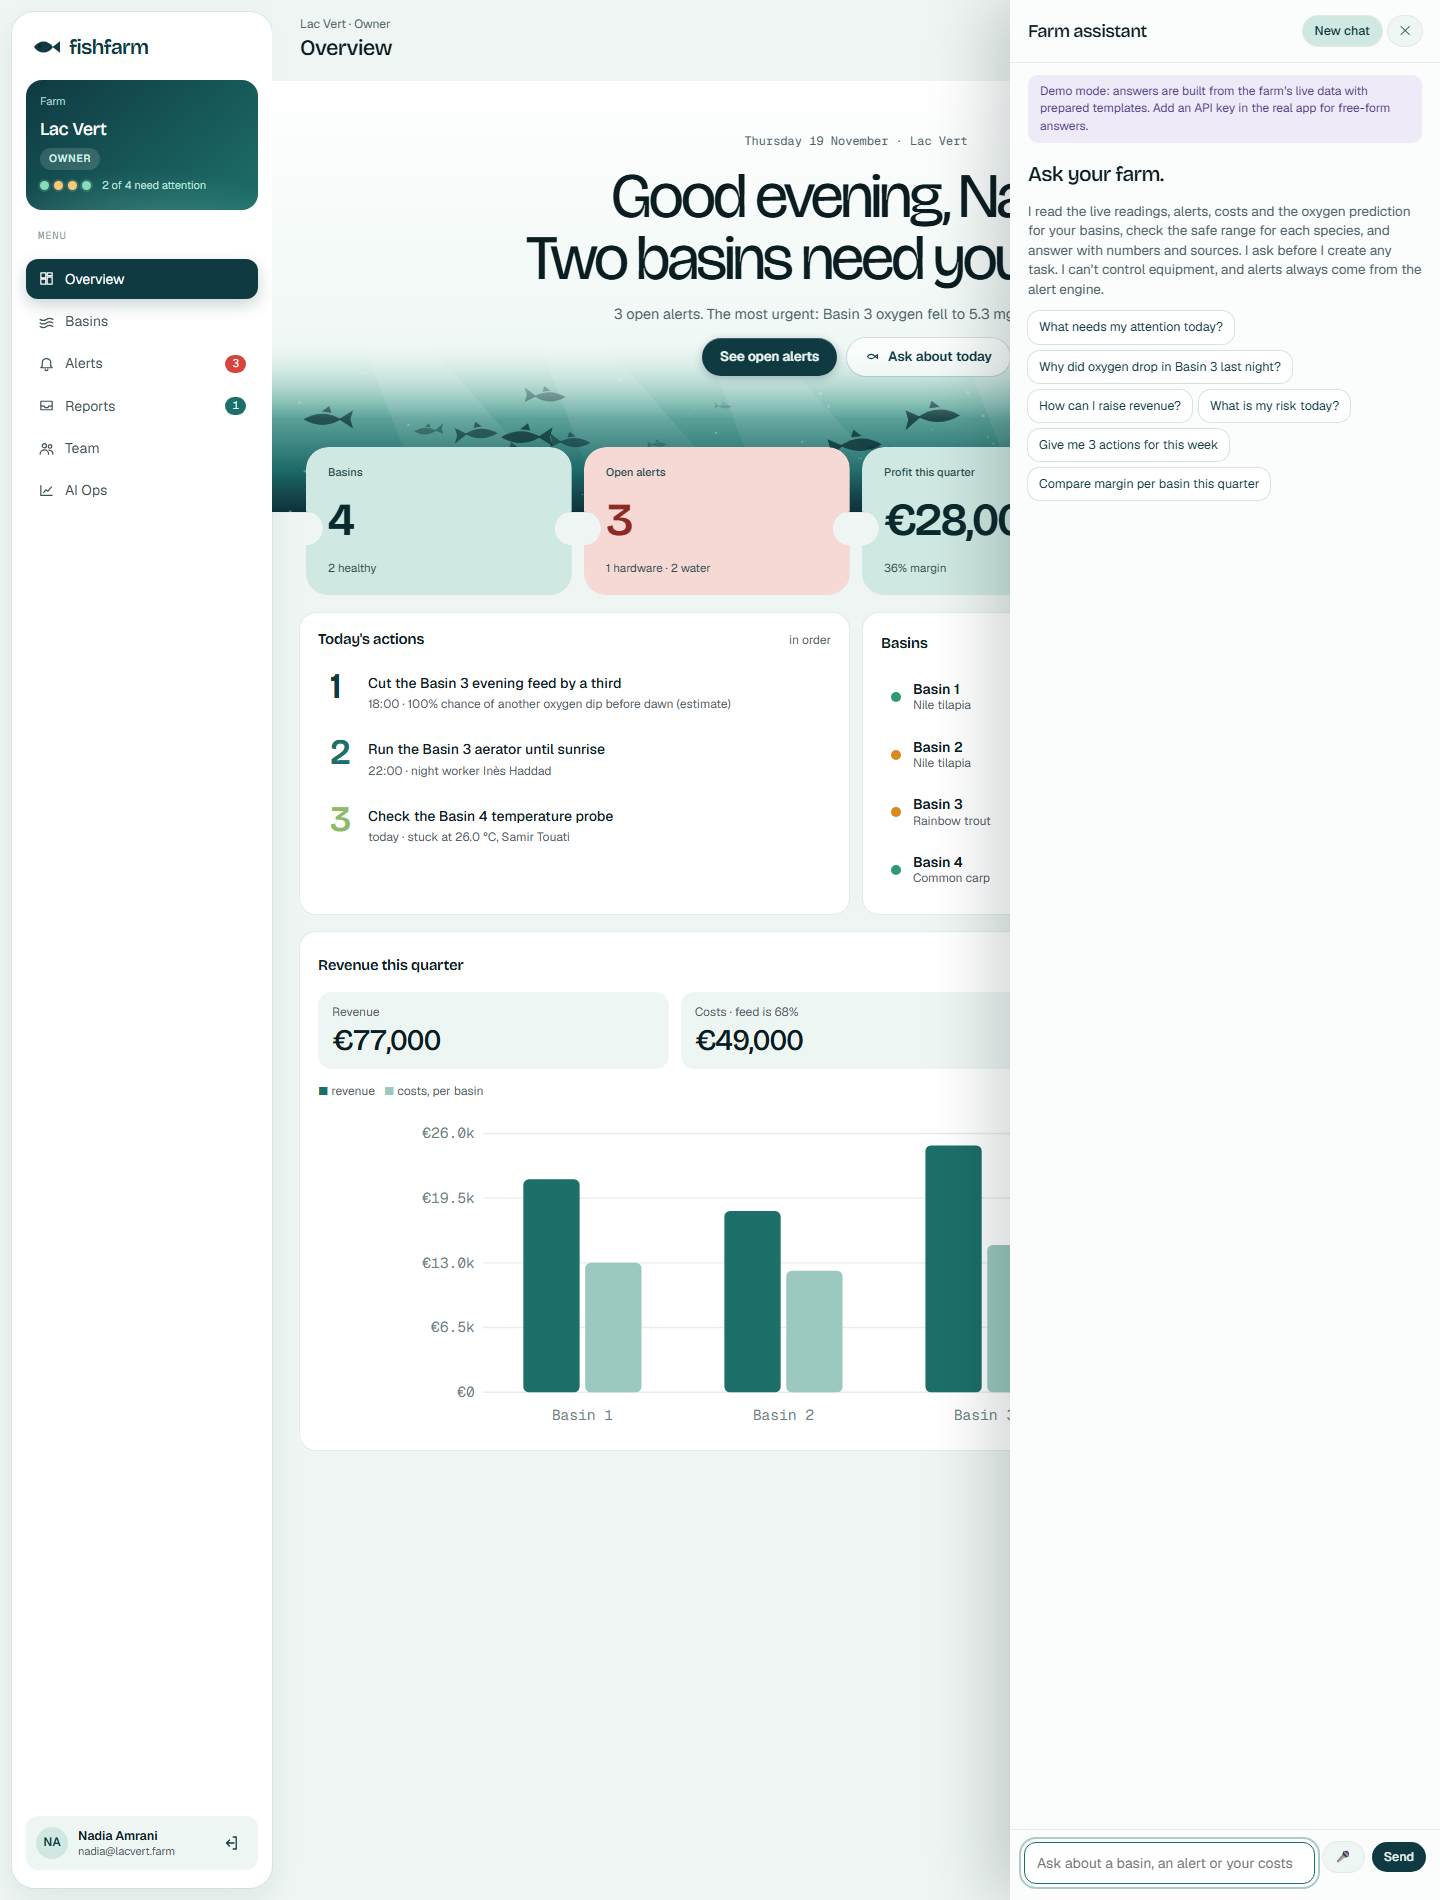
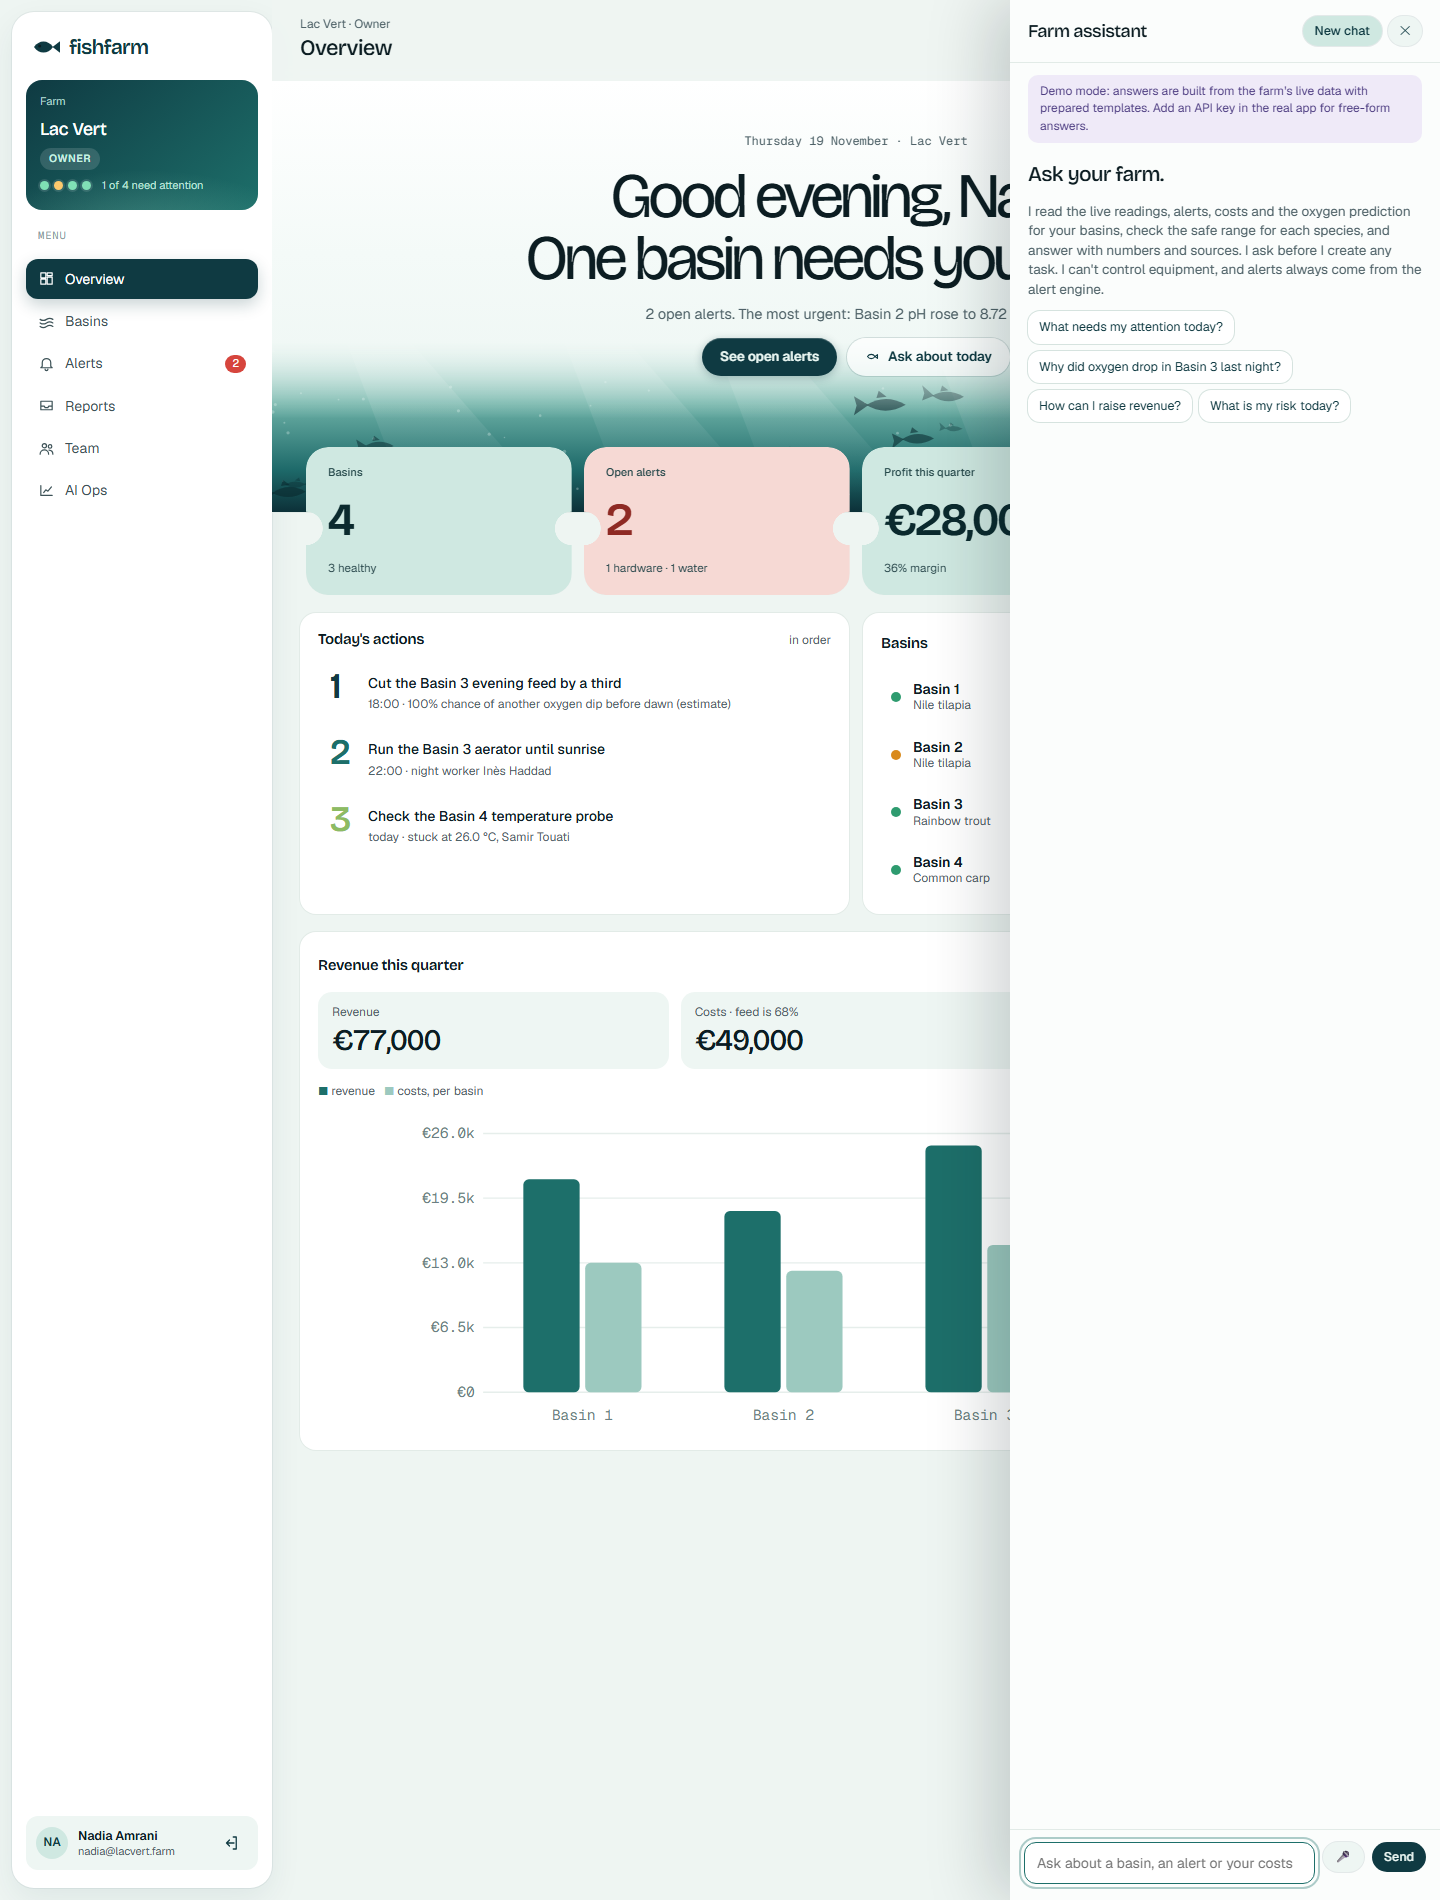
Phase 10: visual check against the 36 reference screenshots
- Captured every reference state from the real app into
  docs/screenshots-build and compared them side by side
- Fixes: just-resolved alert state, team order, maintenance task order,
  prediction feature format, assistant starter chips, chart labels for long
  series, short source chips, steadier Basin 3 demo night dip
- docs/VISUAL_CHECK.md lists every screen with notes

diff --git a/frontend/src/pages/owner/BasinDetail.tsx b/frontend/src/pages/owner/BasinDetail.tsx
@@ -246,8 +246,9 @@ export default function BasinDetail() {
                 <div key={f.name}>
                   <span>{f.label}</span>
                   <span className="mono">
-                    {f.value}
-                    {f.unit ? ' ' + f.unit : ''}
+                    {f.name === 'temp_now'
+                      ? fmt(f.value, 1)
+                      : `${f.name === 'do_decline_3h' ? fmt(f.value, 2) : Math.round(f.value)} ${f.unit}`}
                   </span>
                 </div>
               ))
@@ -260,7 +261,7 @@ export default function BasinDetail() {
           </div>
           <button
             className="small-btn"
-            style={{ justifySelf: 'start' }}
+            style={{ alignSelf: 'flex-start' }}
             onClick={() => ai.ask(`Explain the oxygen risk of ${b.name}`)}
           >
             <Icon name="chat" size={14} />

diff --git a/frontend/src/components/AlertList.tsx b/frontend/src/components/AlertList.tsx
@@ -16,7 +16,7 @@ function AlertItem({ a, justDone, onCheck }: { a: Alert; justDone: string | null
   const who = a.kind === 'sensor' ? 'the technician' : 'the worker on shift';
   return (
     <div
-      className={`alert sev-${a.severity}${done ? ' done' : ''}${justDone !== null ? ' just-done' : ''}`}
+      className={`alert sev-${a.severity}${a.resolved && justDone === null ? ' done' : ''}${justDone !== null ? ' just-done' : ''}`}
       data-aid={a.id}
     >
       <span className="stripe" />
@@ -51,7 +51,7 @@ function AlertItem({ a, justDone, onCheck }: { a: Alert; justDone: string | null
         </p>
       </div>
       <div className="acts">
-        {!done && (
+        {!a.resolved && (
           <button className="small-btn" onClick={() => ai.ask(`Explain alert ${a.id}`)}>
             <Icon name="chat" size={14} />
             Explain

diff --git a/frontend/src/assistant/Panel.tsx b/frontend/src/assistant/Panel.tsx
@@ -85,8 +85,6 @@ function chipsFor(role: string, page: string, basin?: string) {
     'Why did oxygen drop in Basin 3 last night?',
     'How can I raise revenue?',
     'What is my risk today?',
-    'Give me 3 actions for this week',
-    'Compare margin per basin this quarter',
   ];
 }
 

diff --git a/backend/app/services/demo.py b/backend/app/services/demo.py
@@ -51,7 +51,7 @@ BASINS = [
         3100,
         {
             "base": {"temp": 17.6, "do": 7.3, "ph": 7.2},
-            "amp": {"temp": 0.6, "do": 1.6, "ph": 0.2},
+            "amp": {"temp": 0.6, "do": 1.45, "ph": 0.2},
             "night_dip": {"from": 2.8, "to": 5.6, "depth": 0.28},
         },
     ),
@@ -219,7 +219,7 @@ def load_demo(
             source="maintenance",
             due_date=today + timedelta(days=1),
             created_by=owner_id,
-            created_at=now - timedelta(hours=5),
+            created_at=now - timedelta(hours=4),
         )
     )
     db.add(
@@ -232,7 +232,7 @@ def load_demo(
             source="manual",
             due_date=today,
             created_by=owner_id,
-            created_at=now - timedelta(hours=4),
+            created_at=now - timedelta(hours=5),
         )
     )
     db.flush()

diff --git a/backend/app/services/briefing.py b/backend/app/services/briefing.py
@@ -59,7 +59,7 @@ def team(db: Session, owner_id: uuid.UUID) -> list[dict]:
         select(User, UserRole)
         .join(UserRole, UserRole.user_id == User.id)
         .where(UserRole.owner_user_id == owner_id, UserRole.role != "owner")
-        .order_by(UserRole.created_at, User.name)
+        .order_by(UserRole.role, UserRole.shift_start, User.name)
     ).all()
     return [
         {

diff --git a/docs/VISUAL_CHECK.md b/docs/VISUAL_CHECK.md
@@ -1,0 +1,62 @@
+# Visual check
+
+The 36 states of `docs/screenshots/` were captured from the real application with Playwright
+(`frontend/scripts/capture.mjs`, same names, same viewports: 1440 px wide on desktop, 390×844 at 2× on
+phone) into `docs/screenshots-build/`, then compared side by side with the reference.
+
+**Expected differences everywhere** (not design changes):
+- **Fonts:** the reference screenshots used a fallback font; the app loads Bricolage Grotesque, Geist and Geist Mono.
+- **Live data:** readings, times, the clock, the greeting ("Good evening") and percentages come from the running
+  simulator and the trained model, so the numbers differ from the prototype's fixed values. For example, the model gives the trout
+  basin a risk close to 100 %, because it dips under its warning level almost every night (see `ml/README.md`).
+- **Animations:** captures use reduced motion, like the reference (resting state).
+
+Intended additions, required by the specifications and logged in `docs/DECISIONS.md`:
+- **AI Ops** as a sixth item of the owner menu (owner-only page from CHATBOT_UPGRADE §8).
+- **+ Add basin** button on the Basins page, and the **Explain this estimate** button on the prediction tile.
+- In the assistant panel: a **PDF** export button, a **microphone** button where the browser supports voice input,
+  and a **Recent conversations** list in the empty state when there is history.
+
+| # | Screen | Result | Note |
+|---|---|---|---|
+| 01 | Website, full page | ✅ | All sections, canvas scenes and footer logo match. |
+| 02 | Website hero | ✅ | Live chips show the demo farm's real readings. |
+| 03 | Owner sign in | ✅ | |
+| 04 | Wrong password | ✅ | Same message and position. |
+| 05 | Create farm validation | ✅ | Same errors. The hint under the button now says the farm starts empty (real behaviour). |
+| 06 | Team sign in | ✅ | |
+| 10 | Owner overview | ✅ | Actions and summary are computed by the briefing service. |
+| 11 | Basins | ✅ | Plus the "+ Add basin" button. |
+| 12 | Basin detail, oxygen | ✅ | Chart, overnight-low marker and gauges match; prediction from the model. |
+| 13 | Basin detail, temperature | ✅ | |
+| 14 | Alerts, open | ✅ | Same three alerts, raised by the SQL alert engine and the sensor-health job. |
+| 15 | Resolve dialog | ✅ | |
+| 16 | Just resolved | ✅ | Green row with pop, title not struck, then moves to Done. |
+| 17 | Done tab | ✅ | "Resolved by NAME at HH:MM · note" from the database. |
+| 18 | Reports inbox | ✅ | Report times are relative to when the demo was seeded. |
+| 19 | Report open | ✅ | Opening does not mark it read. |
+| 20 | All read | ✅ | |
+| 21 | Team | ✅ | Footnote says permissions apply instantly (they are pushed live). |
+| 22 | Permissions sheet | ✅ | |
+| 23 | Add member sheet | ✅ | Creates a real account. |
+| 24 | Notifications | ✅ | Latest five open alerts. |
+| 25 | Assistant, empty | ✅ | Plus PDF and microphone buttons. |
+| 26 | Assistant answer with chart | ✅ | Real tool calls, chart, citations, approval card and follow-ups. |
+| 30 | Worker Today | ✅ | Shift text depends on the time: outside 06:00–14:00 it says "You're off shift right now", as in the prototype's code. |
+| 31 | Worker alerts | ✅ | Water alerts only. |
+| 32 | Shift report validation | ✅ | |
+| 33 | Worker basin detail | ✅ | Probes list and "Report a problem" instead of finances. |
+| 40 | Technician Today | ✅ | |
+| 41 | Hardware alerts | ✅ | |
+| 42 | Sensor health | ✅ | Evidence comes from the health job ("+0.15 vs. its 7-day baseline" instead of "vs. neighbour basins"). |
+| 43 | Maintenance | ✅ | The aerator task is assigned to Karim (decision 11). |
+| 50 | Phone website hero | ✅ | |
+| 51 | Phone sign in | ✅ | |
+| 52 | Phone owner overview | ✅ | |
+| 53 | Phone alerts | ✅ | |
+| 54 | Phone assistant | ✅ | |
+
+Fixes made during this check: the "just resolved" state, the team order (workers by shift, then technicians), the order of
+maintenance tasks, the number format of the prediction features, the width of the "Explain this estimate" button, the four starter chips
+of the assistant, the chart time labels for long series, shorter source chips, and a calmer Basin 3 day-night swing so its night alert
+is "high" as in the design (not "critical").
